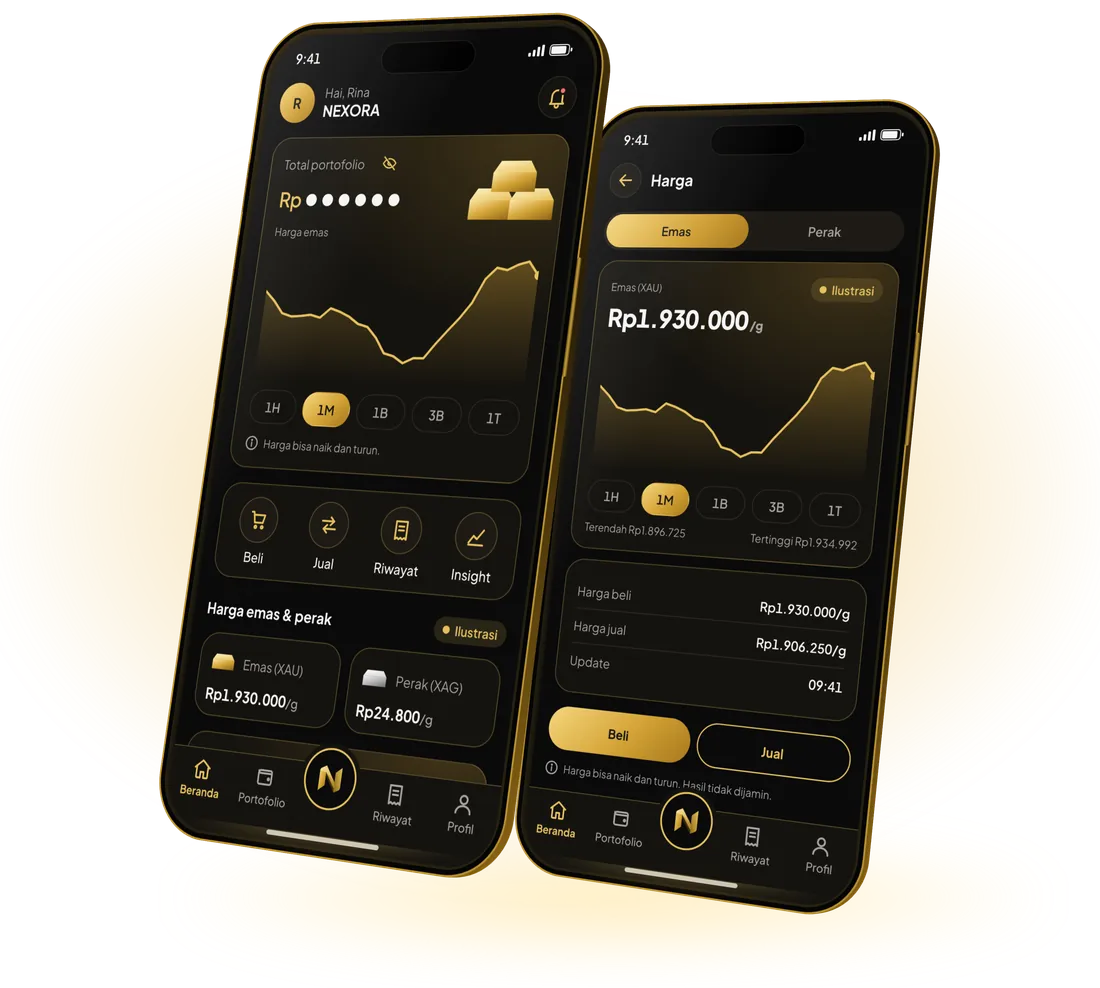
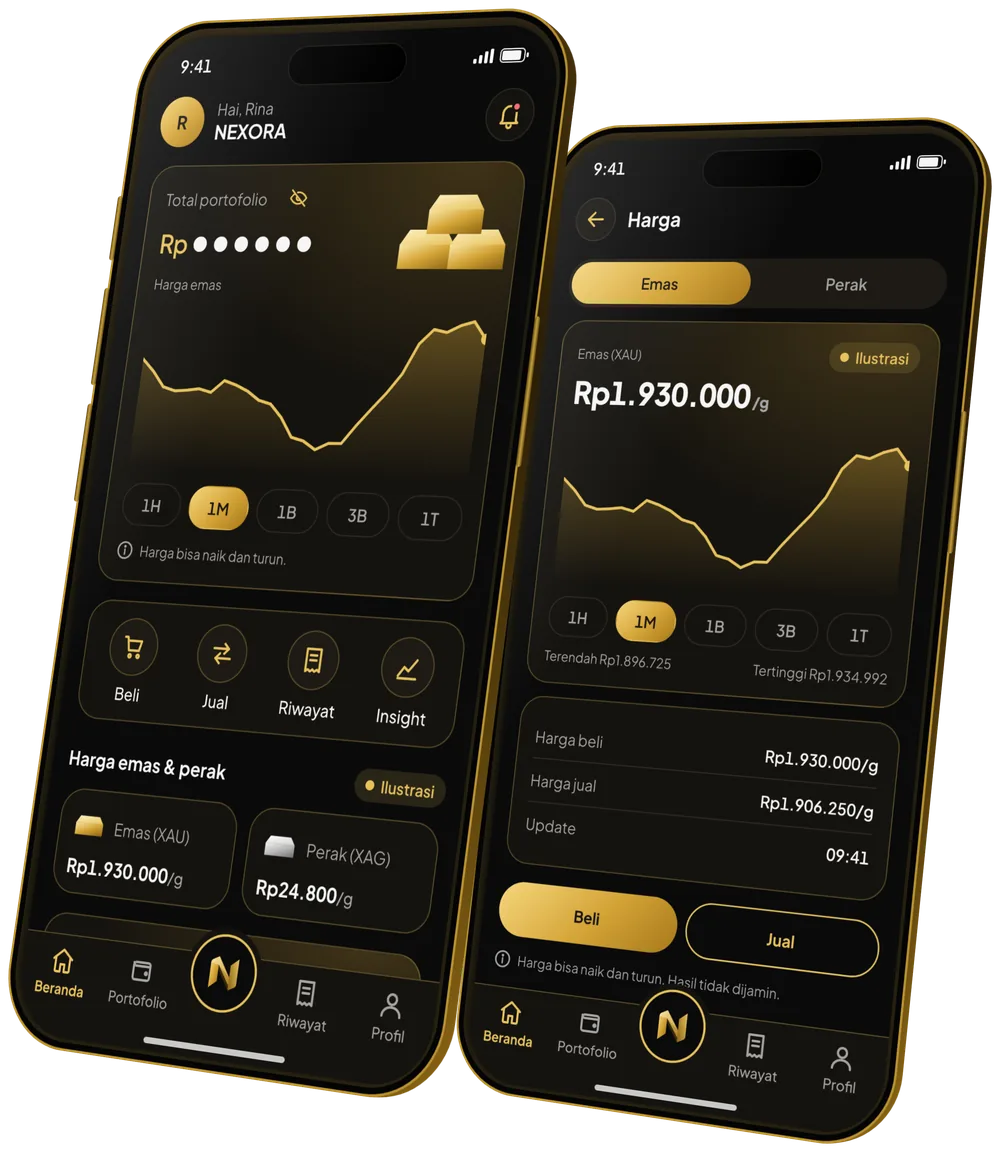
fix(nexora): glow-free mockups + CSS gold glow
Lexa replaced the mockups: the baked-in glow showed banding, so the new
PNGs are phones only. Re-exported to WebP (two phones 1000 px, 102 KB;
tilted phone 560 px, 56 KB) and drew the gold glow with a blurred CSS
radial gradient behind the image.

Claude-Session: https://claude.ai/code/session_01Gwa42uBY4whgpwmotFXuLZ

diff --git a/src/index.css b/src/index.css
@@ -246,9 +246,11 @@ p { margin: 0; }
 .nxp__title { font-size: clamp(3rem, 8vw, 5.5rem); letter-spacing: 0.04em; background: linear-gradient(135deg, #fbe7a6, #d4a437 55%, #a8781c); -webkit-background-clip: text; background-clip: text; color: transparent; }
 .nxp__intro { margin-top: 18px; max-width: 560px; font-size: 1.12rem; color: rgba(255, 255, 255, 0.78); }
 .nxp__hero .nexora__status { margin-top: 24px; }
-.nxp__phone { margin: 0; display: grid; justify-items: center; gap: 16px; }
+.nxp__phone { position: relative; margin: 0; display: grid; justify-items: center; gap: 16px; }
+.nxp__phone::before { content: ""; position: absolute; inset: 2% -8% 8%; z-index: 0; border-radius: 50%; background: radial-gradient(closest-side, rgba(240, 200, 100, 0.75), rgba(212, 164, 55, 0.35) 50%, transparent 100%); filter: blur(36px); pointer-events: none; }
+.nxp__phone picture, .nxp__phone figcaption { position: relative; z-index: 1; }
 .nxp__phone figcaption { font-size: 0.82rem; color: rgba(255, 255, 255, 0.55); text-align: center; }
-.nxp__phone img { width: 100%; max-width: 620px; height: auto; display: block; }
+.nxp__phone img { width: 100%; max-width: 560px; height: auto; display: block; filter: drop-shadow(0 30px 40px rgba(0, 0, 0, 0.55)); }
 .nxp__icon { background: linear-gradient(135deg, #fdf3d6, #f3dfa5); color: #8a6414; }
 .nxp__card.is-visible:hover { border-color: #d4a437; box-shadow: 0 20px 44px -16px rgba(212, 164, 55, 0.4); }
 .nxp__note { max-width: 720px; }
@@ -258,7 +260,10 @@ p { margin: 0; }
 .btn--gold:hover { transform: translateY(-2px); }
 @media (max-width: 900px) {
   .nxp__hero-inner { grid-template-columns: 1fr; gap: 40px; }
-  .nxp__phone img { max-width: 520px; margin-inline: auto; }
+  .nxp__phone img { max-width: 480px; margin-inline: auto; }
+}
+@media (max-width: 560px) {
+  .nxp__phone img { max-width: 280px; }
 }
 
 /* ---------- Responsive ---------- */

diff --git a/src/components/NexoraPage.jsx b/src/components/NexoraPage.jsx
@@ -6,13 +6,14 @@ import mockOne from "../assets/nexora/mockup-hp-miring.webp";
 
 // Halaman produk NEXORA (#/nexora). Aturan konten: tanpa nama mitra, tanpa klaim izin/keamanan,
 // tanpa angka yang kebaca kayak janji untung, tanpa form data pribadi.
-// Mockup HP dari aset branding Lexa (marketing-assets), dikecilin ke WebP. Saldo disembunyiin, harga ditandai "Ilustrasi".
+// Mockup HP dari aset branding Lexa (marketing-assets, versi tanpa glow), dikecilin ke WebP. Glow emas dari CSS.
+// Saldo disembunyiin, harga ditandai "Ilustrasi".
 // Layar sempit pakai satu HP miring biar tetap kebaca.
 const PhoneMock = ({ label }) => (
   <figure className="nxp__phone">
     <picture>
       <source media="(max-width: 560px)" srcSet={mockOne} />
-      <img src={mockTwo} alt={label} width="1100" height="988" loading="eager" decoding="async" />
+      <img src={mockTwo} alt={label} width="1000" height="1152" loading="eager" decoding="async" />
     </picture>
     <figcaption>{label}</figcaption>
   </figure>
